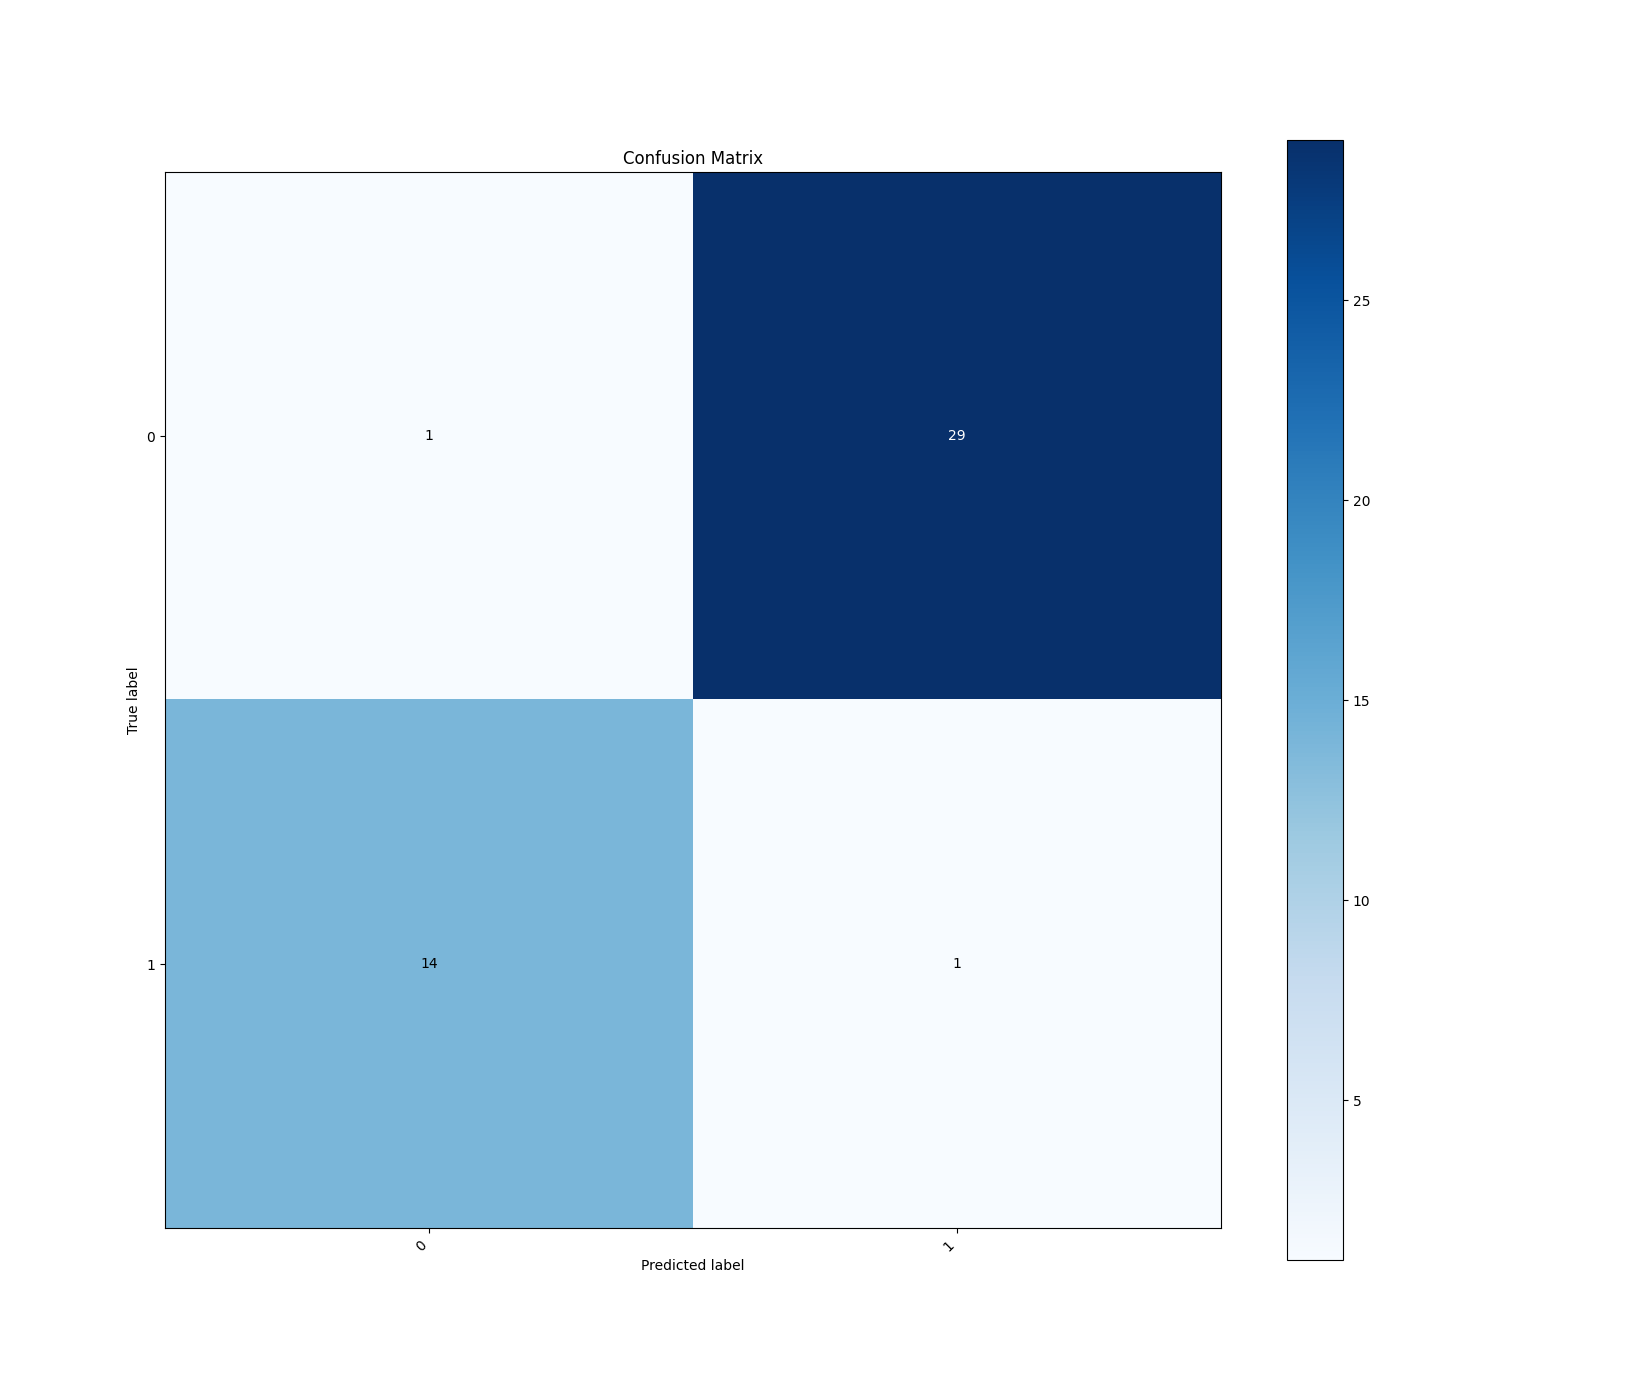
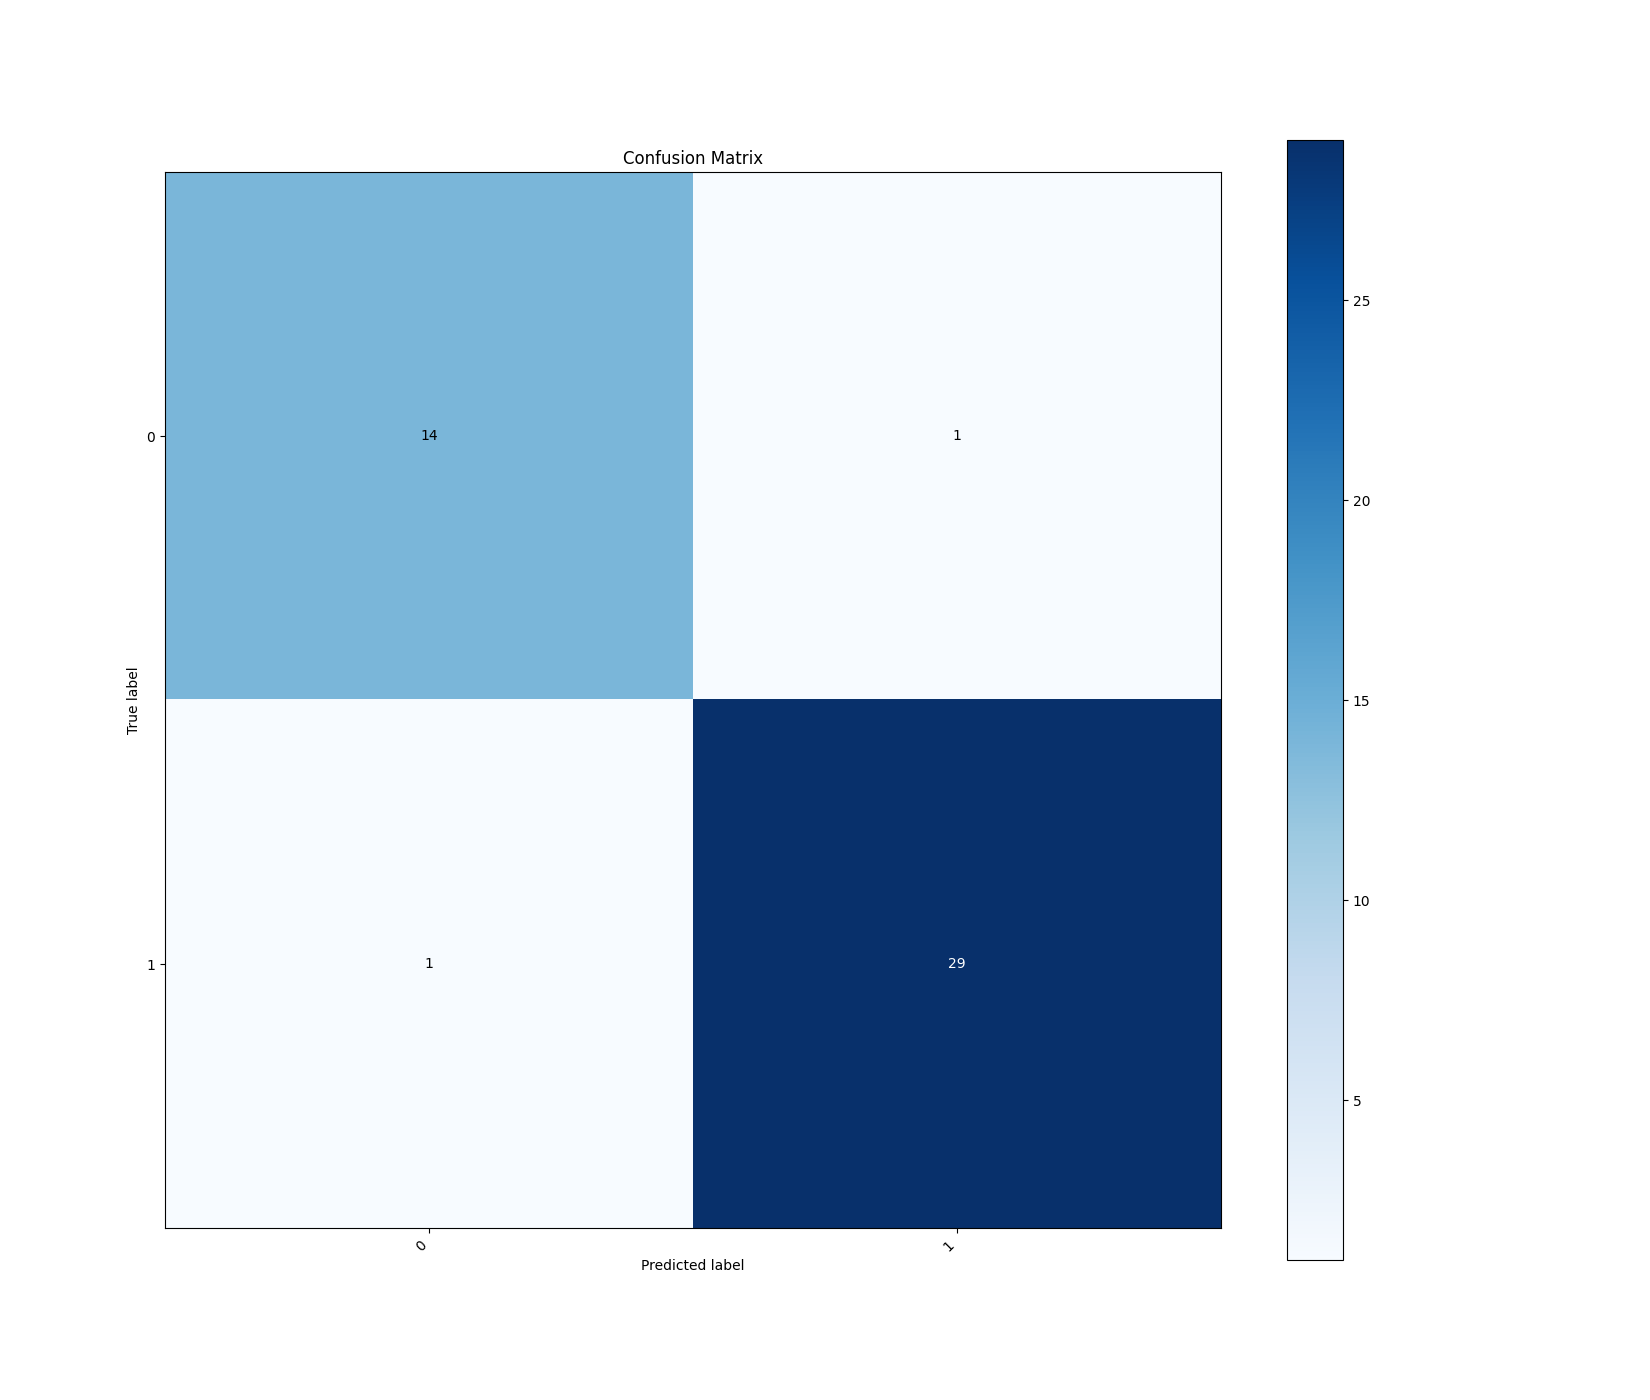
Fix `ID3` and `Custom` implementation works

diff --git a/src/decision_tree/decision_tree.py b/src/decision_tree/decision_tree.py
@@ -34,11 +34,15 @@ class CustomConditionNode(ConditionNode):
             raise Exception("Condition is None")
         else:
             df_filtered: pd.DataFrame = self.df_x.loc[list(self.subset_indeces)]
-            sx_indices: set = set(df_filtered.loc[df_filtered.apply(self.condition, axis=1)].index.tolist())
-            dx_indices: set = set(df_filtered.index.tolist()) - sx_indices        
-            sx_node = CustomConditionNode(parent=self, subset_indeces=sx_indices)
-            dx_node = CustomConditionNode(parent=self, subset_indeces=dx_indices)
-            self.children = {0: sx_node, 1: dx_node}
+            # sx_indices: set = set(df_filtered.loc[df_filtered.apply(self.condition, axis=1)].index.tolist())
+            # dx_indices: set = set(df_filtered.index.tolist()) - sx_indices        
+            # sx_node = CustomConditionNode(parent=self, subset_indeces=sx_indices)
+            # dx_node = CustomConditionNode(parent=self, subset_indeces=dx_indices)
+            # self.children = {0: sx_node, 1: dx_node}
+
+            grouped = df_filtered.groupby(df_filtered.apply(self.condition, axis=1))
+            children_indices = {key: group.index.tolist() for key, group in grouped}
+            self.children = {key: CustomConditionNode(parent=self, subset_indeces=children_indices[key]) for key in children_indices} 
 
     def _information_gain(self, attr_series: pd.Series,
                                 test_value: float,
@@ -75,8 +79,8 @@ class CustomConditionNode(ConditionNode):
                 possible_values: list[int] = attr_series.unique() 
             else:
                 n_groups: int = num_thresholds
-                # possible_values: list[float] = attr_series.quantile(np.arange(0, 1, step=1/n_groups) + 1/n_groups).values
-                possible_values: list[float] = attr_series.unique() 
+                possible_values: list[float] = attr_series.quantile(np.arange(0, 1, step=1/n_groups) + 1/n_groups).values
+                # possible_values: list[float] = attr_series.unique() 
                 
             for value in possible_values:
                 information_gain: float = self._information_gain(attr_series, value, is_categorical, imp_func)
@@ -87,9 +91,9 @@ class CustomConditionNode(ConditionNode):
                     max_info_gain_attr_name = attr_name
                     max_is_categorical      = is_categorical
         if max_is_categorical:
-            self.condition: LambdaType = lambda row: row[max_info_gain_attr_name] == max_val
+            self.condition: LambdaType = lambda row: row[max_info_gain_attr_name] == max_val 
         else:
-            self.condition: LambdaType = lambda row: row[max_info_gain_attr_name] <= max_val
+            self.condition: LambdaType = lambda row: 0 if row[max_info_gain_attr_name] <= max_val else 1
 
         print("SPLIT ON", max_info_gain_attr_name, "WITH IG =", max_info_gain)
         

diff --git a/src/decision_tree/ID3.py b/src/decision_tree/ID3.py
@@ -83,7 +83,7 @@ class ConditionNodeID3(ConditionNode):
             mask: pd.Series = attr_series <= value
             info_attr += (n_instances/tot_instances) * self._shannon_entropy(self.df_y.loc[list(self.subset_indeces)][mask])
 
-        condition = lambda row: math.floor(stats.percentileofscore(quantiles_list, row[attr_name]) * n_groups / 100) - 1
+        condition = lambda row: math.floor(stats.percentileofscore(quantiles_list, row[attr_name]) * n_groups / 100) # TODO: check if is correct - 1
 
         return self._shannon_entropy(self.df_y) - info_attr, condition, quantiles_list.unique()
     
@@ -94,7 +94,7 @@ class ConditionNodeID3(ConditionNode):
             df_filtered: pd.DataFrame = self.df_x.loc[list(self.subset_indeces)]
 
             grouped = df_filtered.groupby(df_filtered.apply(self.condition, axis=1))
-
+            
             children_indices = {key: group.index.tolist() for key, group in grouped}
             for key in children_indices:
                 self.children.update({key: ConditionNodeID3(parent=self, 

diff --git a/src/main_decision_tree.py b/src/main_decision_tree.py
@@ -77,8 +77,8 @@ if __name__ == "__main__":
     X_train, y_train = get_X_and_Y(df_train, verbose=VERBOSE)
     X_test, y_test = get_X_and_Y(df_test, verbose=VERBOSE)
     # print_dataset(X_train, y_train)
-#    X_train, _ = label_encoder(X_train, ['Timestamp', 'Account', 'Account.1', 'Receiving Currency', 'Payment Currency', 'Payment Format'])
-#    X_test, _ = label_encoder(X_test, ['Timestamp', 'Account', 'Account.1', 'Receiving Currency', 'Payment Currency', 'Payment Format'])
+    # X_train, _ = label_encoder(X_train, ['Timestamp', 'Account', 'Account.1', 'Receiving Currency', 'Payment Currency', 'Payment Format'])
+    # X_test, _ = label_encoder(X_test, ['Timestamp', 'Account', 'Account.1', 'Receiving Currency', 'Payment Currency', 'Payment Format'])
     
     # Iris dataset
     encoder = {'Iris-setosa': 0, 'Iris-versicolor': 1, 'Iris-virginica': 2}

diff --git a/src/decision_tree/abstract_decision_tree.py b/src/decision_tree/abstract_decision_tree.py
@@ -124,7 +124,6 @@ class AbstractDecisionTree(object, metaclass=ABCMeta):
             val = node.value
         else:
             branch: int = node.condition(x)
-            branch = 1 if branch == False else 0
             if node.children[branch] is None:
                 val = node.value
             else:
